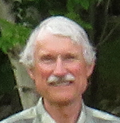
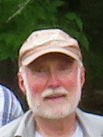
Show hand cards on bid panel so players can bid without closing overlay

diff --git a/public/index.html b/public/index.html
@@ -113,9 +113,9 @@
   .c-mid { position: absolute; top: 50%; left: 50%; transform: translate(-50%,-50%); font-size: 24px; }
 
   /* BID PANEL */
-  #bid-panel { position: fixed; inset: 0; background: rgba(0,0,0,0.72); display: none; align-items: center; justify-content: center; z-index: 100; }
+  #bid-panel { position: fixed; inset: 0; background: rgba(0,0,0,0.72); display: none; align-items: flex-start; justify-content: center; z-index: 100; overflow-y: auto; padding: 16px; }
   #bid-panel.on { display: flex; }
-  #bid-box { background: linear-gradient(160deg, #1e5c35, #124d2a); border: 2px solid var(--gold); border-radius: 14px; padding: 28px; text-align: center; max-width: 380px; width: 90%; box-shadow: 0 12px 40px rgba(0,0,0,0.8); }
+  #bid-box { background: linear-gradient(160deg, #1e5c35, #124d2a); border: 2px solid var(--gold); border-radius: 14px; padding: 22px; text-align: center; max-width: 420px; width: 100%; box-shadow: 0 12px 40px rgba(0,0,0,0.8); margin: auto; }
   #bid-box h3 { color: var(--gold); font-size: 20px; margin-bottom: 10px; }
   #bid-trump-wrap { display: flex; flex-direction: column; align-items: center; margin-bottom: 16px; }
   #bid-trump-lbl { font-size: 11px; color: #8aad8a; letter-spacing: 2px; margin-bottom: 6px; }
@@ -130,6 +130,13 @@
   .bid-btn:hover { background: var(--gold-dark); color: #1a1a1a; transform: scale(1.1); }
   #bid-summary { margin-top: 14px; font-size: 12px; color: #8aad8a; }
   #bid-summary span { color: var(--gold); }
+  #bid-hand { margin-top: 16px; border-top: 1px solid rgba(201,168,76,0.25); padding-top: 14px; }
+  #bid-hand-label { font-size: 11px; color: #8aad8a; letter-spacing: 1px; text-align: center; margin-bottom: 8px; }
+  #bid-hand-cards { display: flex; flex-wrap: wrap; justify-content: center; gap: 3px; }
+  #bid-hand-cards .card { width: 52px; height: 74px; cursor: default; }
+  #bid-hand-cards .card:hover { transform: none; }
+  #bid-hand-cards .c-corner { font-size: 10px; }
+  #bid-hand-cards .c-mid { font-size: 18px; }
 
   /* SCORE PANEL */
   #score-panel { position: fixed; inset: 0; background: rgba(0,0,0,0.75); display: none; align-items: center; justify-content: center; z-index: 100; overflow-y: auto; padding: 20px; }
@@ -282,6 +289,10 @@
     <p id="bid-prompt"></p>
     <div class="bid-btns" id="bid-btns"></div>
     <div id="bid-summary"></div>
+    <div id="bid-hand">
+      <div id="bid-hand-label">YOUR HAND</div>
+      <div id="bid-hand-cards"></div>
+    </div>
   </div>
 </div>
 
@@ -614,6 +625,17 @@ function showBidPanel() {
   let sofar = '';
   s.bids.forEach((bid, i) => { if (bid !== null) sofar += `<span>${view.players[i]?.name}: ${bid}</span>  `; });
   $('bid-summary').innerHTML = sofar ? 'Bids so far: ' + sofar : '';
+
+  // show hand cards sorted by suit then rank
+  const SUITS_ORDER = ['♠','♥','♦','♣'];
+  const hand = [...(view.myHand||[])].sort((a,b) => {
+    const si = SUITS_ORDER.indexOf(a.suit) - SUITS_ORDER.indexOf(b.suit);
+    return si !== 0 ? si : rankVal(a.rank) - rankVal(b.rank);
+  });
+  const handEl = $('bid-hand-cards');
+  handEl.innerHTML = '';
+  hand.forEach(card => handEl.appendChild(buildCard(card, false)));
+
   $('bid-panel').classList.add('on');
 }
 